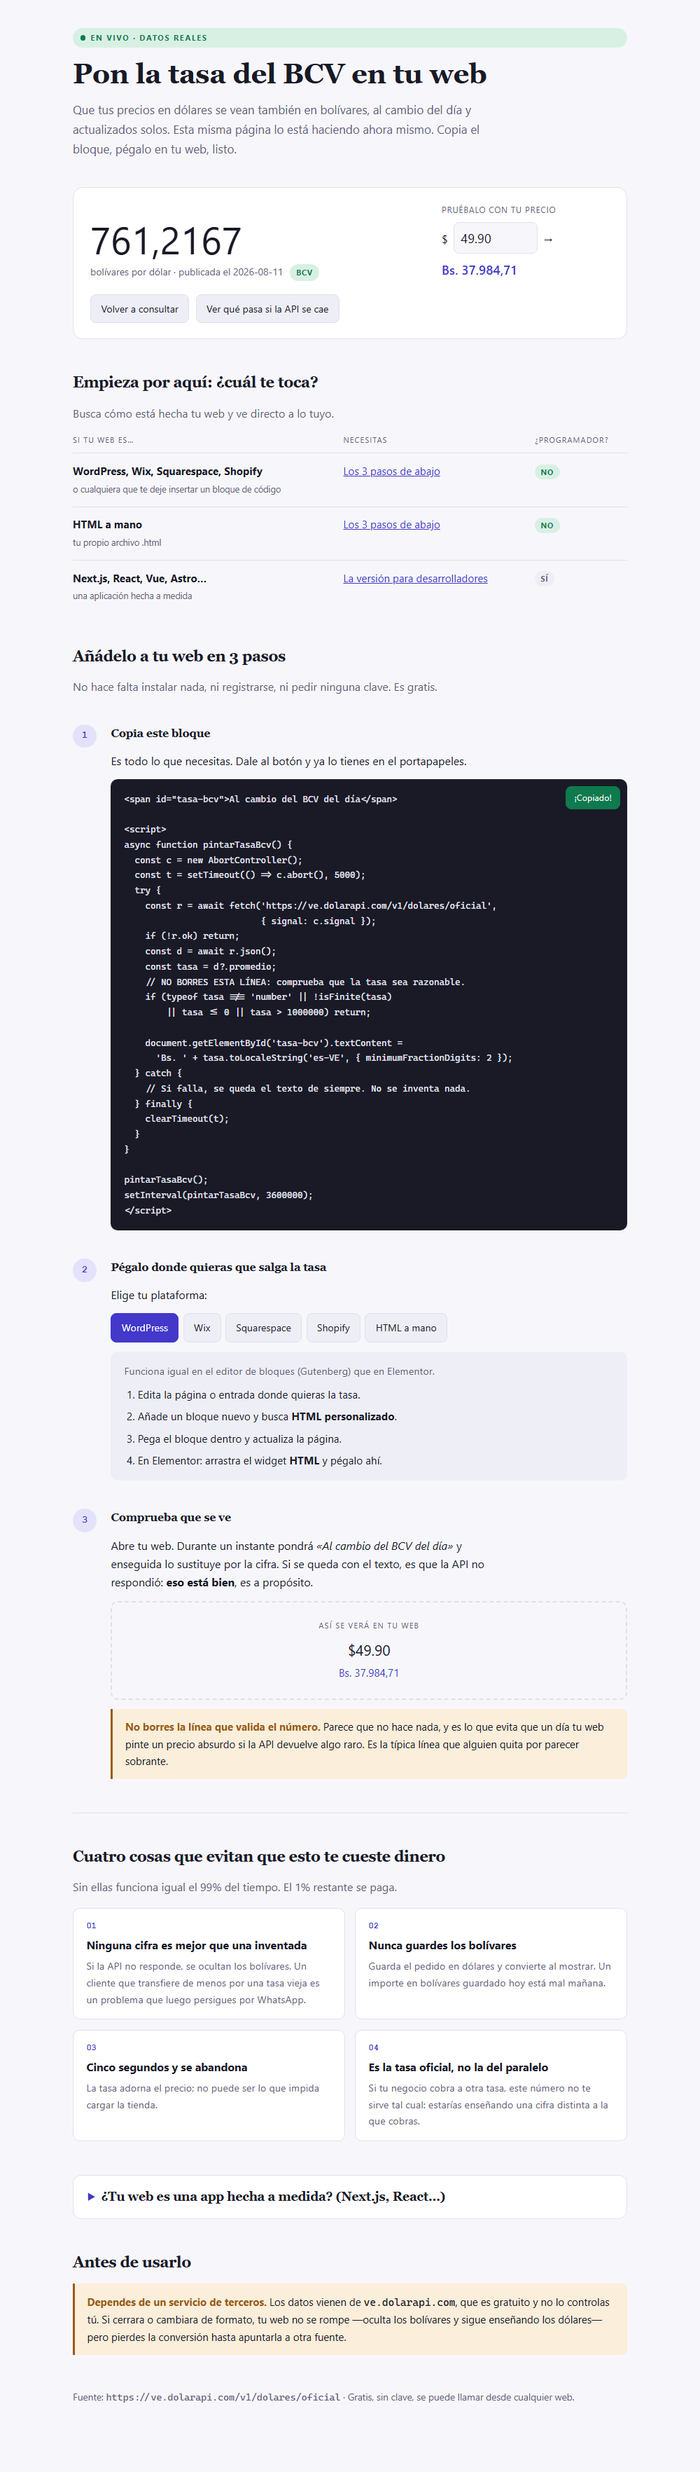
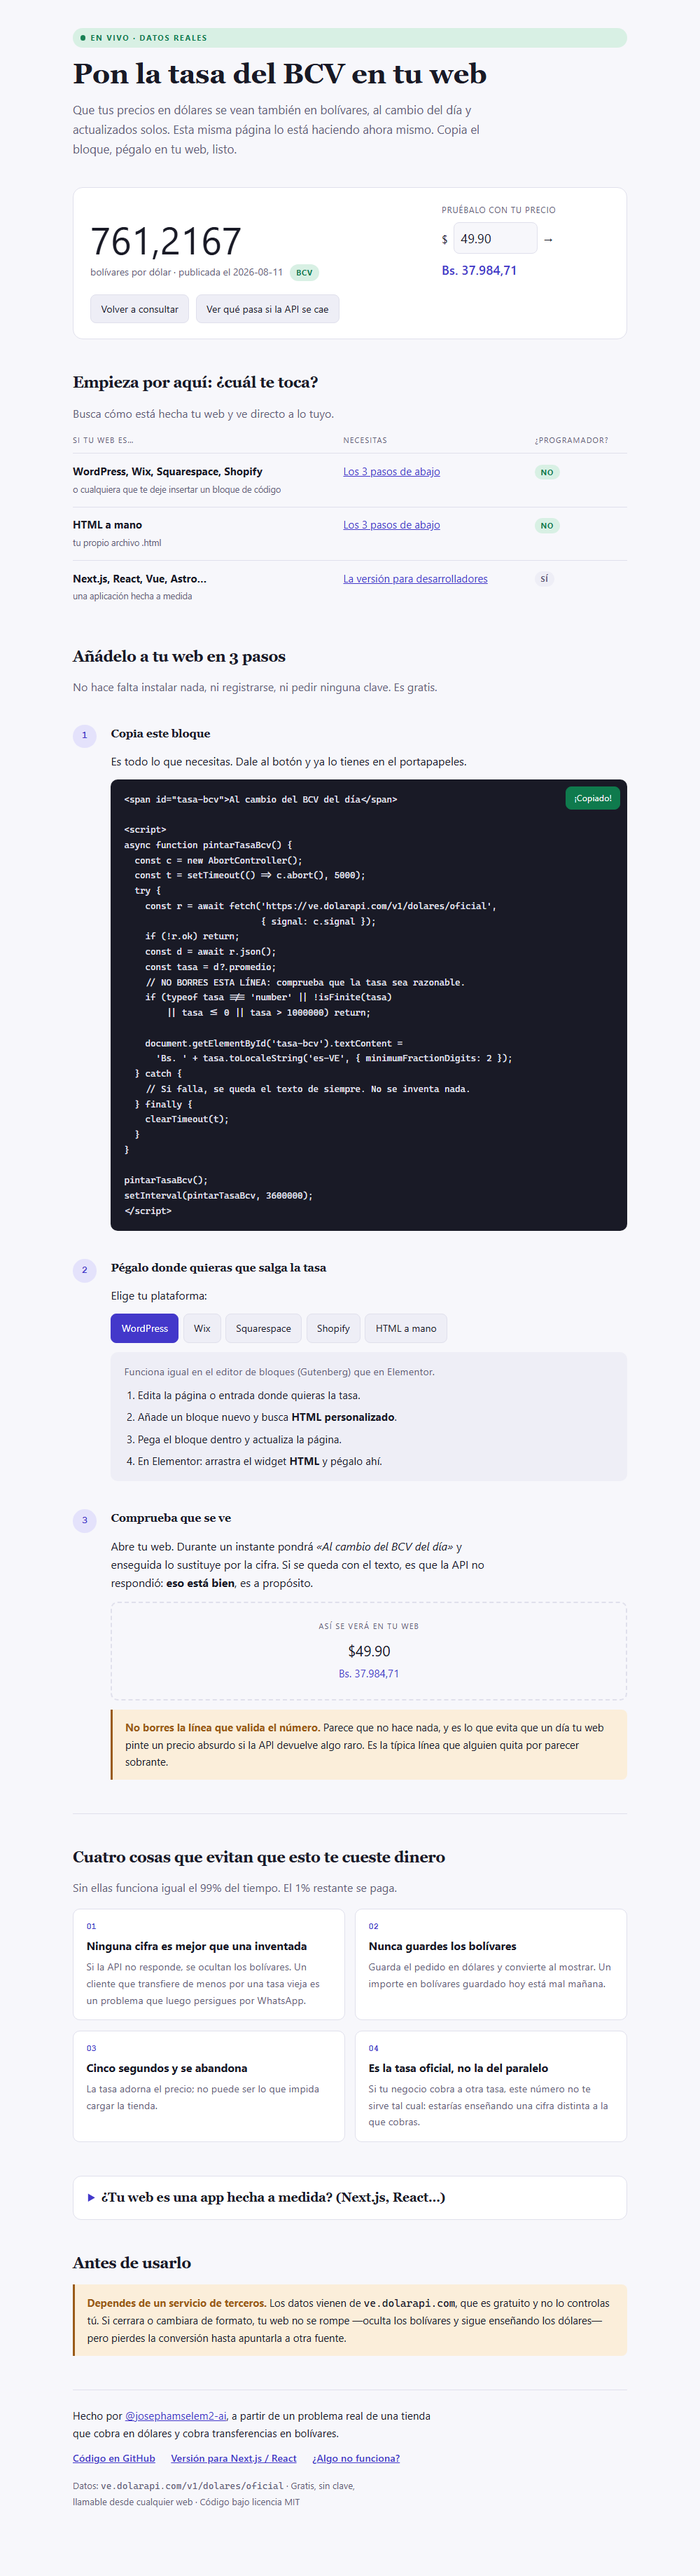
Atribución y enlaces al repo en el pie de la guía
Quien llegue desde Google puede ahora llegar al código y al autor.

Changed region(s): [[0.093, 0.0935, 0.899, 0.9666], [0.093, 0.0, 0.713, 0.1247], [0.744, 0.1559, 0.806, 0.2183]]

diff --git a/demo/index.html b/demo/index.html
@@ -226,7 +226,11 @@
   details .contenido { display:flex; flex-direction:column; gap:.9rem; margin-top:1rem }
 
   hr { border:0; border-top:1px solid var(--line); margin:3rem 0 0 }
-  footer { margin-top:3rem; color:var(--muted); font-size:.85rem }
+  footer { margin-top:3rem; border-top:1px solid var(--line); padding-top:1.5rem;
+           display:flex; flex-direction:column; gap:1rem }
+  .creditos p { color:var(--ink); font-size:.95rem }
+  .enlaces-pie { display:flex; flex-wrap:wrap; gap:.4rem 1.4rem; margin-top:.7rem; font-size:.9rem; font-weight:600 }
+  .fuente-pie { color:var(--muted); font-size:.82rem }
   .archivo { font-family:ui-monospace,Menlo,monospace; font-size:.72rem; color:var(--muted) }
 </style>
 </head>
@@ -514,8 +518,22 @@ setInterval(pintarTasaBcv, 3600000);
   </section>
 
   <footer>
-    Fuente: <span class="mono">https://ve.dolarapi.com/v1/dolares/oficial</span> ·
-    Gratis, sin clave, se puede llamar desde cualquier web.
+    <div class="creditos">
+      <p>
+        Hecho por <a href="https://github.com/josephamselem2-ai">@josephamselem2-ai</a>,
+        a partir de un problema real de una tienda que cobra en dólares y
+        cobra transferencias en bolívares.
+      </p>
+      <div class="enlaces-pie">
+        <a href="https://github.com/josephamselem2-ai/tasa-bcv">Código en GitHub</a>
+        <a href="https://github.com/josephamselem2-ai/tasa-bcv#readme">Versión para Next.js / React</a>
+        <a href="https://github.com/josephamselem2-ai/tasa-bcv/issues">¿Algo no funciona?</a>
+      </div>
+    </div>
+    <p class="fuente-pie">
+      Datos: <span class="mono">ve.dolarapi.com/v1/dolares/oficial</span> ·
+      Gratis, sin clave, llamable desde cualquier web · Código bajo licencia MIT
+    </p>
   </footer>
 
 </div>
